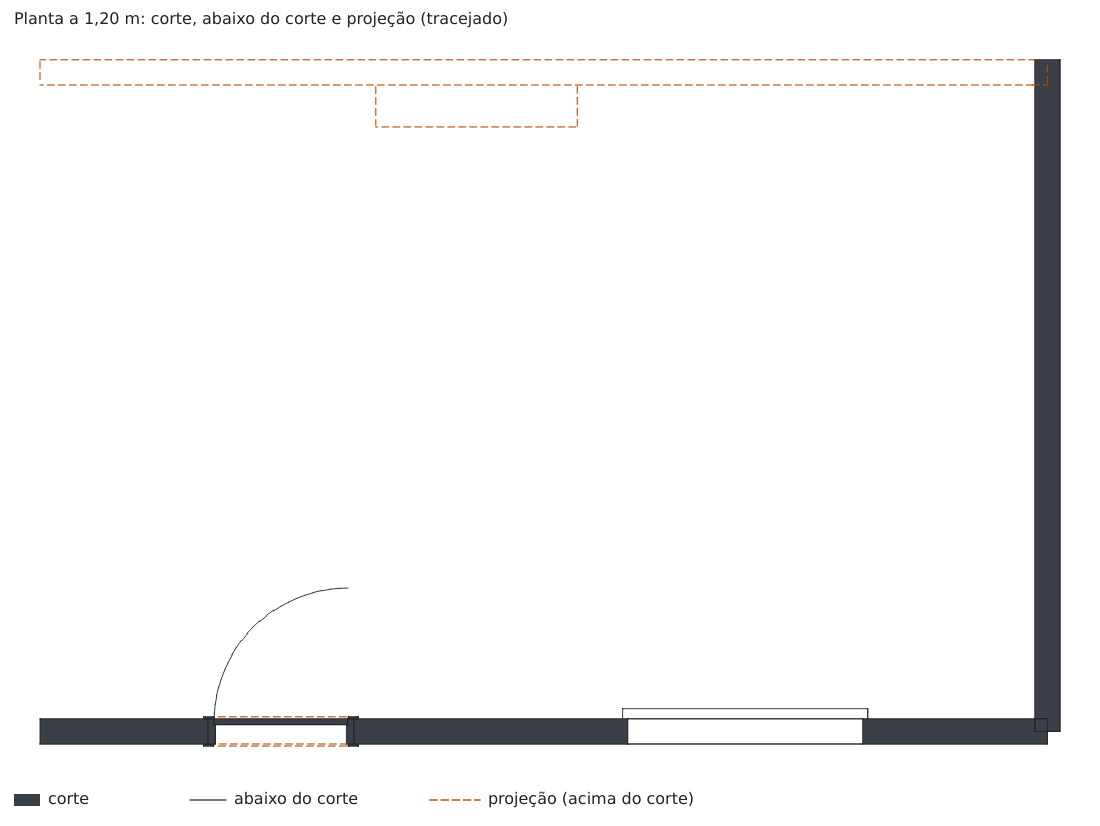
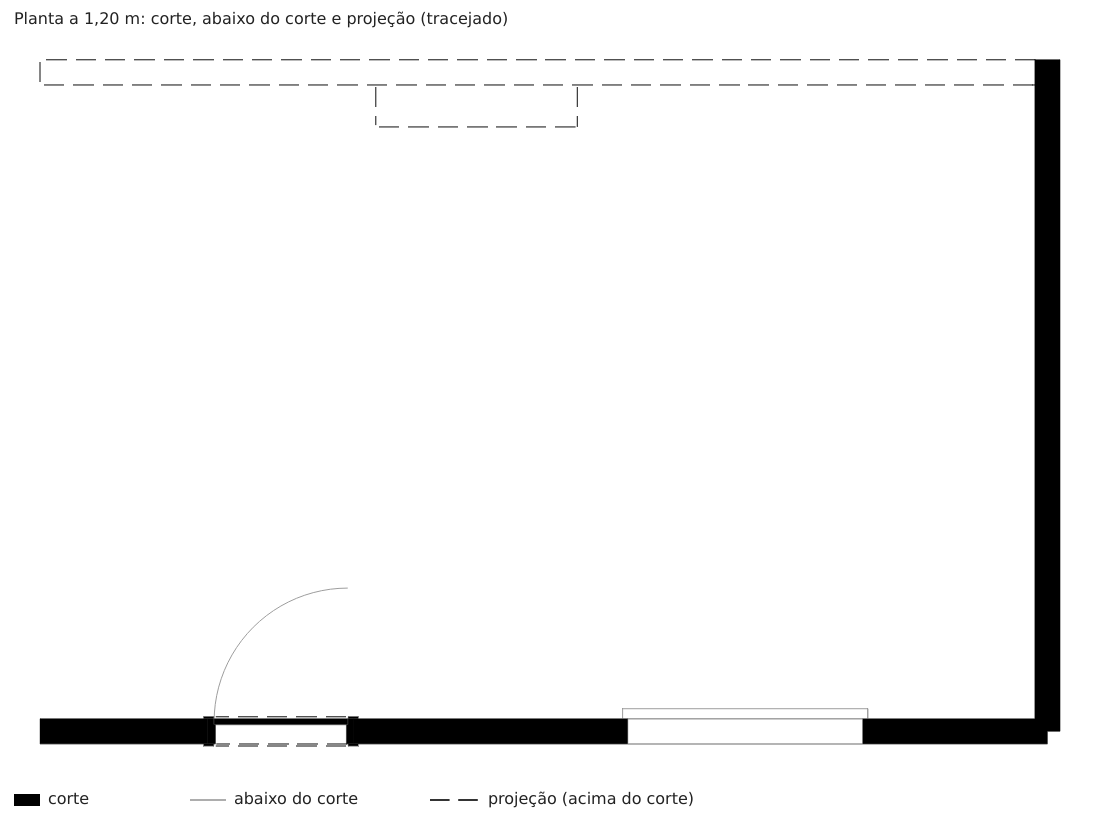
Spike BIM: planta 2D no padrão gráfico do escritório (render_plan style=ao)
Poché preto cheio sem contorno, linha cinza #989898 de 0,48 pt para mobília e portas,
projeção tracejada preta com traço de 9,8 pt e vão de 4,3 pt — medidos no vetor de
um PDF de layout. Estilo anterior mantido como 'cad'. Testes e docs atualizados.

Claude-Session: https://claude.ai/code/session_01RnvpUaQhePLKYiTCwKentz

diff --git a/plugins/bim_proto.py b/plugins/bim_proto.py
@@ -1408,15 +1408,31 @@ def plan_drawing(scene, cut_z: float = 1.2, *, tol: float = 0.005) -> dict:
             "above": np.asarray(proj, float).reshape(-1, 4)}
 
 
+#: Estilos da planta 2D. Larguras e tracejado em PONTOS de papel. ``"ao"`` foi MEDIDO
+#: no vetor de um PDF de layout de escritório (poché preto cheio e sem contorno; mobília
+#: e portas em linha fina cinza de 0,48 pt; projeções em tracejado preto de 0,48 pt, traço
+#: de 9,8 pt e vão de 4,3 pt); ``"cad"`` é o cinza-azulado com projeção laranja.
+PLAN_STYLES = {
+    "ao": {"cut_fill": "#000000", "cut_edge": None,
+           "below": ("#989898", 0.48), "above": ("#000000", 0.48),
+           "dash": (9.8, 4.3), "lines_under_cut": True},
+    "cad": {"cut_fill": "#3a3f48", "cut_edge": None,
+            "below": ("#222222", 0.5), "above": ("#b04a00", 0.6),
+            "dash": (6.0, 4.0), "lines_under_cut": False},
+}
+
+
 def render_plan(plan: dict, width: int = 1600, margin: int = 40, title: str = "",
-                legend: bool = True):
-    """Desenha o resultado de :func:`plan_drawing` numa ``QImage`` — poché cinza,
-    linha fina para o que está abaixo do corte e TRACEJADO para a projeção do que
-    está acima, como na planta do AutoCAD. Sem janela e sem GL."""
+                legend: bool = True, style: str = "ao", px_per_pt: float = 2.0):
+    """Desenha o resultado de :func:`plan_drawing` numa ``QImage`` — poché, linha fina
+    para o que está abaixo do corte e TRACEJADO para a projeção do que está acima,
+    como na planta do AutoCAD. ``style``: chave de :data:`PLAN_STYLES` (``"ao"`` por
+    padrão); ``px_per_pt`` converte os pontos do estilo em pixels. Sem janela e sem GL."""
     import numpy as np
     from PySide6.QtCore import QPointF, Qt
     from PySide6.QtGui import QColor, QFont, QImage, QPainter, QPen, QPolygonF
 
+    st = PLAN_STYLES[style]
     pts = [lp for lp in plan["cut"]]
     for key in ("below", "above"):
         if len(plan[key]):
@@ -1443,16 +1459,36 @@ def render_plan(plan: dict, width: int = 1600, margin: int = 40, title: str = ""
     def Y(y):
         return height - margin - foot + 20 - (y - y0) * k
 
-    p.setPen(Qt.NoPen)
-    p.setBrush(QColor("#3a3f48"))
-    for lp in plan["cut"]:
-        p.drawPolygon(QPolygonF([QPointF(X(a), Y(b)) for a, b in lp]))
-    p.setPen(QPen(QColor("#222"), 0.9))
-    for a, b, c, d in plan["below"]:
-        p.drawLine(QPointF(X(a), Y(b)), QPointF(X(c), Y(d)))
-    dash = QPen(QColor("#b04a00"), 1.1, Qt.CustomDashLine)
-    dash.setDashPattern([6, 4])
-    p.setPen(dash)
+    def pen(spec, dashed=False):
+        colour, pt = spec
+        w = max(pt * px_per_pt, 0.6)
+        q = QPen(QColor(colour), w, Qt.CustomDashLine if dashed else Qt.SolidLine)
+        if dashed:                      # o Qt mede o tracejado em larguras da caneta
+            q.setDashPattern([st["dash"][0] * px_per_pt / w, st["dash"][1] * px_per_pt / w])
+        q.setCapStyle(Qt.FlatCap)
+        return q
+
+    def poche():
+        if st["cut_edge"]:
+            p.setPen(QPen(QColor(st["cut_edge"]), 1.0))
+        else:
+            p.setPen(Qt.NoPen)
+        p.setBrush(QColor(st["cut_fill"]))
+        for lp in plan["cut"]:
+            p.drawPolygon(QPolygonF([QPointF(X(a), Y(b)) for a, b in lp]))
+
+    def below():
+        p.setPen(pen(st["below"]))
+        for a, b, c, d in plan["below"]:
+            p.drawLine(QPointF(X(a), Y(b)), QPointF(X(c), Y(d)))
+
+    if st["lines_under_cut"]:
+        below()
+        poche()
+    else:
+        poche()
+        below()
+    p.setPen(pen(st["above"], dashed=True))
     for a, b, c, d in plan["above"]:
         p.drawLine(QPointF(X(a), Y(b)), QPointF(X(c), Y(d)))
     p.setFont(QFont("DejaVu Sans", 12))
@@ -1461,18 +1497,17 @@ def render_plan(plan: dict, width: int = 1600, margin: int = 40, title: str = ""
         p.drawText(14, 24, title)
     if legend:
         ly = height - 22
-        p.setBrush(QColor("#3a3f48"))
+        p.setBrush(QColor(st["cut_fill"]))
         p.setPen(Qt.NoPen)
         p.drawRect(14, ly - 10, 26, 12)
         p.setPen(QColor("#222"))
         p.drawText(48, ly, _t("cut"))
-        p.setPen(QPen(QColor("#222"), 1.2))
+        lw = pen((st["below"][0], max(st["below"][1], 0.8)))
+        p.setPen(lw)
         p.drawLine(190, ly - 4, 226, ly - 4)
         p.setPen(QColor("#222"))
         p.drawText(234, ly, _t("below the cut"))
-        dash2 = QPen(QColor("#b04a00"), 1.4, Qt.CustomDashLine)
-        dash2.setDashPattern([5, 3])
-        p.setPen(dash2)
+        p.setPen(pen((st["above"][0], max(st["above"][1], 0.8)), dashed=True))
         p.drawLine(430, ly - 4, 480, ly - 4)
         p.setPen(QColor("#222"))
         p.drawText(488, ly, _t("projection (above the cut)"))

diff --git a/tests/test_bim_proto.py b/tests/test_bim_proto.py
@@ -1326,14 +1326,42 @@ def test_a_beam_above_the_cut_is_projected_and_a_sill_below_it_is_not(vp):
     assert any(5.95 <= min(s[0], s[2]) <= 7.05 and 2.95 <= s[1] <= 3.35 for s in plan["below"])
 
 
-def test_the_plan_renders_with_a_dashed_projection(vp):
+def _colours(img, step=2):
+    return {img.pixelColor(x, y).name() for x in range(0, img.width(), step)
+            for y in range(0, img.height(), step)}
+
+
+def test_the_plan_renders_in_the_office_standard_by_default(vp):
     _wall_with(vp, [{"s0": 1.5, "s1": 2.5, "sill": 0.0, "head": 2.1}], length=4.0)
-    img = mod.render_plan(mod.plan_drawing(vp.scene, 1.2), width=800, title="t")
+    plan = mod.plan_drawing(vp.scene, 1.2)
+    img = mod.render_plan(plan, width=800, title="t")
     assert img.width() == 800 and img.height() > 100
-    colours = {img.pixelColor(x, y).name() for x in range(0, 800, 2)
-               for y in range(0, img.height(), 2)}
-    assert "#3a3f48" in colours                       # poché
-    assert any(c.startswith("#b0") or c.startswith("#c") for c in colours)  # dashed ink
+    colours = _colours(img)
+    assert "#000000" in colours                       # solid black poche, as in the PDF
+    assert "#3a3f48" not in colours
+    # the projection is dashed: along a row inside the opening the black runs have gaps
+    dark = [[img.pixelColor(x, y).red() < 90 for x in range(img.width())]
+            for y in range(img.height())]
+    gappy = False
+    for row in dark:
+        runs = sum(1 for a, b in zip(row, row[1:]) if b and not a)
+        if 3 <= runs <= 60 and sum(row) < img.width() * 0.5:
+            gappy = True
+    assert gappy
+
+
+def test_the_cad_style_keeps_the_blue_grey_poche_and_orange_projection(vp):
+    _wall_with(vp, [{"s0": 1.5, "s1": 2.5, "sill": 0.0, "head": 2.1}], length=4.0)
+    img = mod.render_plan(mod.plan_drawing(vp.scene, 1.2), width=800, style="cad")
+    colours = _colours(img)
+    assert "#3a3f48" in colours
+    assert any(c.startswith("#b0") or c.startswith("#c") for c in colours)
+
+
+def test_the_office_style_numbers_are_the_measured_ones():
+    st = mod.PLAN_STYLES["ao"]
+    assert st["dash"] == (9.8, 4.3) and st["below"] == ("#989898", 0.48)
+    assert st["above"] == ("#000000", 0.48) and st["cut_fill"] == "#000000"
 
 
 def test_an_empty_scene_gives_an_empty_plan(vp):

diff --git a/docs/spike-viabilidade.md b/docs/spike-viabilidade.md
@@ -313,7 +313,7 @@ repositório.
 | Peitoril / folha de porta | `kind: "sill"` (laje que sai da face, só nas janelas) e `kind: "leaf"` (folha de porta com `hinge`, `side`, `angle`, folga), criados a partir das `openings` por `create_sills` / `create_leaves` (1 passo, tudo ou nada). Menu «Peitoris (janelas)» e «Folhas de porta». |
 | Porta detalhada | `kind: "leaf"` com `style` `swing` (folha de 35 mm que gira em torno da dobradiça; `frame` = marco com dois batentes rebaixados e travessa; `trim` = guarnição nas duas faces; `arc` = arco de giro como arestas) ou `sliding` (porta de correr de vidro: bastidor de 35 mm, montantes de 50 mm, vidro de 10 mm; `open` 0–1). `create_leaves(..., overrides=f)` dá a cada porta o seu lado, a sua dobradiça e o seu tipo. |
 | Blocos de biblioteca | `load_block_library(caminho.skp)` abre um `.skp` numa cena à parte e devolve `{nome do componente: grupo}`; `create_blocks(viewport, biblioteca, escolher)` põe uma **instância** do componente em cada abertura (`kind: "block"`: eixo, `s`, `block`, `flip`, `side`, `t_offset`), num passo de desfazer. A instância só ganha uma matriz e **compartilha a malha** do componente (editar o bloco muda todas as portas). Convenção do bloco: origem no centro do vão, no chão e no eixo da parede; +X ao longo da parede; +Y para o lado de abrir; +Z para cima. |
-| Planta 2D com projeções | `plan_drawing(cena, corte=1.2)` devolve `cut` (anéis do poché), `below` (linhas do que está abaixo do corte) e `above` (a **projeção** do que está acima: verga sobre a porta, viga, armário alto…, só o que não coincide com o corte nem com o que está abaixo); `render_plan(plano)` pinta numa `QImage` com poché, linha fina e **tracejado**, como no AutoCAD. Dois passes do `core.hlr` (plano de corte normal para cima e para baixo), sem GL; a cena não é alterada. |
+| Planta 2D com projeções | `plan_drawing(cena, corte=1.2)` devolve `cut` (anéis do poché), `below` (linhas do que está abaixo do corte) e `above` (a **projeção** do que está acima: verga sobre a porta, viga, armário alto…, só o que não coincide com o corte nem com o que está abaixo); `render_plan(plano, style="ao"|"cad")` pinta numa `QImage` com poché, linha fina e **tracejado**, como no AutoCAD; o estilo `ao` segue o padrão MEDIDO de um PDF de layout do escritório (ver item 16). Dois passes do `core.hlr` (plano de corte normal para cima e para baixo), sem GL; a cena não é alterada. |
 | Giro da porta | `door_swing(registros, parede, abertura)`: regra «a porta SEMPRE abre para a parede» — dobradiça no lado do canto, folha aberta a 90° rente à parede perpendicular (até 1 m do batente, com comprimento para receber a folha). Devolve dobradiça, lado, folga, e as `alternatives` (outras paredes que também recebem a folha); `ambiguous` quando a regra sozinha não decide. `create_leaves(auto_swing=True)` aplica; `overrides` manda por cima. |
 | Atualizar 3D | `update_3d(viewport, alvos=None)`: regenera paredes, esquadrias, peitoris, portas e blocos (seleção, ou todas) de seus registros e dos níveis, **todas num único passo**. |
 | Editar + atualizar | `edit_walls(viewport, alvos, **parametros)`: 1 passo, desfaz parâmetros e geometria. |
@@ -527,6 +527,22 @@ Achados que valem para qualquer planta importada:
     (`overrides`). Detalhe que custou tempo: o lado `+1` é a *esquerda do eixo* da
     parede, que muda com a direção em que a parede foi desenhada — comparar «esquerda»
     entre paredes sem olhar o eixo engana.
+
+16. **Padrão gráfico de planta do escritório (medido de um PDF de layout).** O PDF é
+    vetorial (47 páginas, InDesign); medi as páginas de planta (30 a 42) por imagem
+    ampliada e pelo vetor da página 31: **parede cortada = poché preto cheio, sem
+    contorno**; **mobília, portas (folha + arco), esquadrias = linha fina de 0,48 pt em
+    cinza `#989898`**; ripas do piso e azulejos em cinza mais claro (`#dbdbdb`, 0,48 pt);
+    **projeções = tracejado preto, 0,48 pt, traço de 9,8 pt e vão de 4,3 pt** (marcenaria
+    alta, balcão, degraus acima do corte, vigas); escada em cinza cheio (`#bbbbbb`) com
+    linha de quebra em zigue-zague; elementos a demolir/atenção em tracejado vermelho;
+    destaques em círculos com letra. Os traços do tracejado vêm separados no PDF (o
+    vetor não tem `dasharray`), por isso a medida saiu da contagem de pixels de uma
+    linha. `render_plan(..., style="ao")` aplica poché preto, linha cinza e tracejado
+    nessas medidas (`PLAN_STYLES["ao"]`); o estilo antigo continua em `"cad"`. **Não
+    entram ainda:** hachura/ripas de piso, escada com linha de quebra, círculos de
+    destaque, tracejado vermelho de demolição, e o texto/cotas. O PDF é de **outro
+    apartamento** (e tem nome de cliente): não foi copiado para o repositório.
 
 ### Peitoril e folha aberta (exemplo sintético)
 

diff --git a/docs/CONTINUAR.md b/docs/CONTINUAR.md
@@ -34,7 +34,7 @@ GPL-3.0); **nenhum dado real de cliente no repositório**.
 |---|---|
 | Resposta às 6 perguntas de viabilidade, tabela, o que exigiria mudar o núcleo, o que ficou sem verificar | `docs/spike-viabilidade.md` |
 | Protótipo: ferramenta de parede por dois pontos, parâmetros em `group.ext`, níveis em `plugin_data`, **Atualizar 3D** num passo de desfazer, painel «Project» (árvore), importar planta (`wall_from_rectangle`), criação em lote (`create_walls`), vãos de porta (`wall_gaps`), **aberturas de verdade nas paredes** (`openings`, `merge_gap_walls`), **união de cantos** em L/T (`join_walls`, `join_corners`) **esquadrias** de fachada e guarda-corpo com travessas (`kind: "frame"`, `create_frames`), **peitoris** (`create_sills`), **folhas de porta** (`create_leaves`) **blocos de biblioteca** do SketchUp postos nas aberturas (`load_block_library`, `create_blocks`) **planta 2D com projeções tracejadas** (`plan_drawing`, `render_plan`) e a regra de giro **«a porta abre para a parede»** (`door_swing`, `create_leaves(auto_swing=True)`) | `plugins/bim_proto.py` |
-| Testes (152, todos passam) | `tests/test_bim_proto.py`, `tests/test_spike_viabilidade.py` |
+| Testes (154, todos passam) | `tests/test_bim_proto.py`, `tests/test_spike_viabilidade.py` |
 | Inspeciona qualquer modelo (.igz .glb .skp .dae .obj .stl .dxf .dwg) e desenha planta cortada, frente e axonometria **sem placa de vídeo** | `scripts/inspecionar_modelo.py` |
 | Imagens de exemplo (paredes de teste, janela com o painel) | `docs/images/` |
 
@@ -83,7 +83,9 @@ qualquer planta importada:
    Portas: 8 detalhadas como no DWG (marco com rebaixo, guarnição, folha de 35 mm,
    arco de giro; 2 de correr de vidro), com lado e dobradiça lidos do arco do bloco;
    ficam fechadas. 6 das 14 portas do DWG (corta-fogo, shafts, 2 de abrir) não têm
-   abertura no modelo. REGRA DO USUÁRIO: a porta sempre abre para a parede (vale 6/6 no DWG); o canto mais
+   abertura no modelo. PADRÃO GRÁFICO DO ESCRITÓRIO (medido de um PDF de layout; ver spike item 16): poché preto cheio,
+   linha cinza #989898 0,48 pt para mobília/portas, projeção tracejada preta 9,8/4,3 pt — é o `style="ao"` do render_plan.
+   REGRA DO USUÁRIO: a porta sempre abre para a parede (vale 6/6 no DWG); o canto mais
    colado acerta 4/6 — as outras 2 dependem do ambiente que a porta serve (ainda sem zonas). Blocos do SketchUp: convenção (origem no centro do vão, +X ao longo da
    parede, +Y lado de abrir, +Z cima) e limite: o `.skp` importa só FACES (linhas soltas do
    símbolo 2D se perdem). Pedir ao usuário 1 `.skp` pequeno com 2–3 blocos reais. ATENÇÃO: coordenadas do modelo = DWG − (2,2972; −0,0131). Peitoris: o DWG
